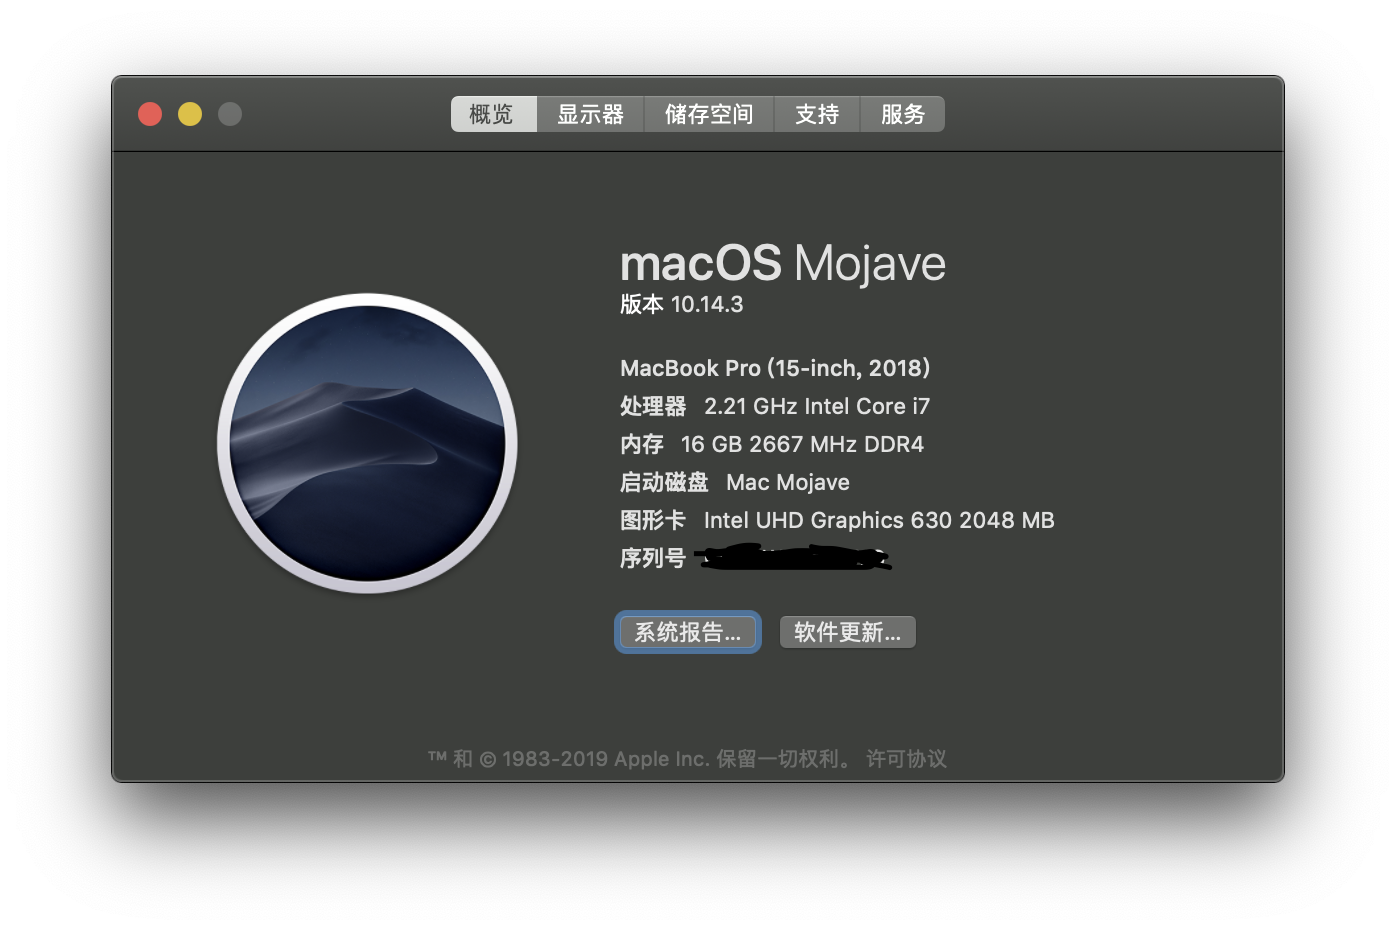
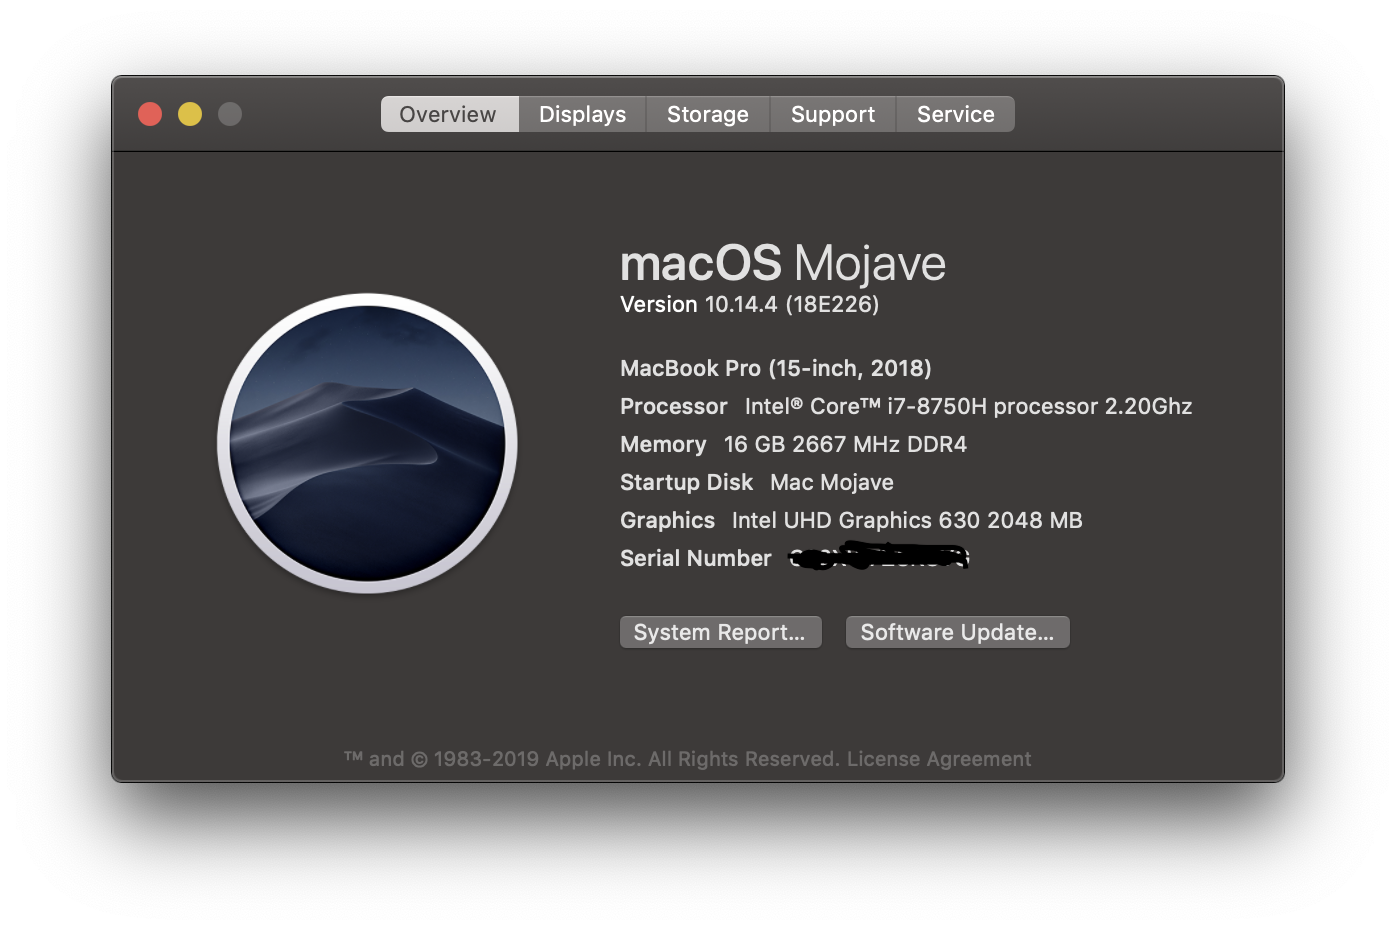
Update README.md

diff --git a/README.md b/README.md
@@ -26,7 +26,7 @@
  * DSDT加载方法存在错误
  
 ## 我的改进
-当然，以上配置已经可以让XPS 9570的几个版本正常使用，但离真正的fawlessly还是有差距。我致力于融合以上两位的工作成果，得到一个完善的配置。在`Mojave 10.14.3`版本下,我的配置解决了以下问题:
+当然，以上配置已经可以让XPS 9570的几个版本正常使用，但离真正的flawlessly还是有差距。我致力于融合以上两位的工作成果，得到一个完善的配置。在`Mojave 10.14.4`版本下,我的配置解决了以下问题:
 
  * 支持Type-C外接显示器输出
  * 支持HDMI口外接显示器输出
@@ -54,26 +54,25 @@
   * Nvida Geforce 1050Ti (无解，已屏蔽)
 
 # 软件环境
- * BIOS: 1.7.0,1.5.0
- * Mojave 10.14.3 + Windows 10 1809系统
- * macOS: 10.14.2, 10.14.3
+ * BIOS: 1.8.1,1.7.0,1.5.0
+ * 系统: Mojave 10.14.4 + Windows 10 1809系统
+ * macOS: 10.14.2, 10.14.3,10.14.4(已支持)
 
 # 使用方法
  * 将CLOVER放入EFI分区，使用config_install.plist进系统完成安装
  * 进入桌面后运行`sudo kextcache -i /`重建缓存
  * 用config.plist使能集显加速
  * 加入自生成的三码
- 
- `config_10.14.4.plist`是我为了想升级10.14.4版本的朋友准备的，因为精力有限我还未能进行测试，期待有人反馈结果。
 
 # 已知问题
  * 睡眠唤醒后，蓝牙随机出现不可用。
- * -v 模式无法进入系统
+ * -v 模式无法进入系统(见[折中方案](#compromise))
+ * 第一阶段与第二阶段苹果logo大小不一致
+ * HDMI adapter 睡眠唤醒后丢失，无法点亮4k@60Hz显示器
  
 # 待测试
  * 雷电三接口
  * 非4k、8750H的机型
- * 在10.14.4上运行
  
 # 关于本机
 ![关于本机](https://github.com/LuletterSoul/Dell-XPS-15-9570-macOS-Mojave/blob/master/screenshots/2048_mem.png)
@@ -81,13 +80,32 @@
 ![集显](https://github.com/LuletterSoul/Dell-XPS-15-9570-macOS-Mojave/raw/master/screenshots/Graphic.png)
 ![双显示器输出](https://github.com/LuletterSoul/Dell-XPS-15-9570-macOS-Mojave/raw/master/screenshots/dual_displays.png)
 ![输出细节](https://github.com/LuletterSoul/Dell-XPS-15-9570-macOS-Mojave/raw/master/screenshots/dual_displays_details.png)
+![触控板](https://github.com/LuletterSoul/Dell-XPS-15-9570-macOS-Mojave/raw/master/screenshots/trackpad.png)
 ![USB3.1](https://github.com/LuletterSoul/Dell-XPS-15-9570-macOS-Mojave/raw/master/screenshots/USB3.1.png)
 ![电池](https://github.com/LuletterSoul/Dell-XPS-15-9570-macOS-Mojave/raw/master/screenshots/Battery.png)
 ![DW1830蓝牙](https://github.com/LuletterSoul/Dell-XPS-15-9570-macOS-Mojave/raw/master/screenshots/DW1830%20Bluetooth.png)
 ![DW1830 Wifi](https://github.com/LuletterSoul/Dell-XPS-15-9570-macOS-Mojave/raw/master/screenshots/DW1830%20Wifi.png)
 ![原生管理](https://github.com/LuletterSoul/Dell-XPS-15-9570-macOS-Mojave/raw/master/screenshots/Extention.png)
 ![变频](https://github.com/LuletterSoul/Dell-XPS-15-9570-macOS-Mojave/raw/master/screenshots/Intel%20Turbo%20Boost.png)
+# 折中方案
+ <span id = "compromise"></span>
+ ## 去除 -v 模式
+ 将`VoodooI2C.kext`,`VoodooI2CHID.kext`,`VoodooPS2Controller.kext` 安装到
+ `/System/Library/Extensions/`, 重建缓存。
+ ## 耳机无声
+ 为ALC298启用守护进程。见[ALC298PlugFix](https://github.com/jardenliu/ALC298PlugFix)
 # 更新历史
+## 支持10.14.4
+  现在的配置支持10.14.4了
+## 注入USB Power Property
+   使用SSDT-USBX.aml 注入四项USB电源属性，设备充电信息变完整了。见[USB power property injection for Sierra (and later)](https://www.tonymacx86.com/threads/guide-usb-power-property-injection-for-sierra-and-later.222266/),谢谢伟人 RehabMan!
+## 修复电池显示
+   删除了abm_firstpolldelay=16000，修复了重启后电量不显示的问题。
+## 驱动更新
+  * VoovooI2C 更新至 v1.2.6 ,支持输入时防触控，支持双指激活通知中心。谢谢 [alexandred](https://github.com/alexandred/VoodooI2C)！
+  * AppleALC 更新至 v1.3.7
+  * AirportBcrmFixup 更新至 v1.19
+  * CPUFriend 与 CPUFriendDataProvider 重新生成，改善8750H的变频效果
 ## 修复HDMI输出
 XPS 9570的HDMI输出问题终于有了进展：依旧是来自@0xFireWolf的出色工作：[Coffee Lake Intel UHD Graphics 630 on macOS Mojave: HDMI Output Issue ](https://www.tonymacx86.com/threads/fix-coffee-lake-intel-uhd-graphics-630-on-macos-mojave-hdmi-output-issue-public-testing-stage.275126/)。（大佬也曾针对CoffeLake UHD 630 Graphic造成的panic问题提出了解决方案，真是太强了）！解决方式如下：
 
@@ -106,11 +124,11 @@ XPS 9570的HDMI输出问题终于有了进展：依旧是来自@0xFireWolf的出
 单屏幕输出成功的样例：
  * `4k 60Hz display<--->HDMI 2.0 cable<---->HDMI 2.0 port`
 ## 禁用board id侦测
-此前，使用macbook pro 15的board-id存在问题(因为Mac OS的主板侦测)，通过修改board-id为iMac,14,可以驱动Type-C接口。但是，经测试该方法有一定几率使电池图标在重启后消失，也可能使DA300 Hub失效。现使用原生的Mbp,15的board-id,同时使用WhateverGreen 中的启动参数agdpmod=vit9696禁用其侦测。
+此前，使用macbook pro 15的board-id存在问题(因为Mac OS的主板侦测)，通过修改board-id为iMac,14,可以驱动Type-C接口。现使用原生的Mbp,15的board-id,同时使用WhateverGreen 中的启动参数agdpmod=vit9696禁用其侦测。
 ## 更新Voodool2CHID v2.1.5
   可能修复了一些bug。
 ## 将显存修改为2048MB
   通过WhateverGreen修改显存为2048M,可能会解决一些机型的花屏问题。
 # 声明
-我尝试直接升级10.14.4，失败了。因此我选择我停留在10.14.3（18D42）,在这个版本上机器工作得很好，希望有意愿的朋友可以尝试升级到10.14.3更高版本进行测试，期待更多的朋友可以加入进来，让XPS 9570 实现真正的Hackintosh!
+现在XPS 9570 已经在最新版本工作得很好啦。希望有意愿的朋友可以探索已知问题列表中的issues，或者提出更多可改进的方案，让XPS 9570 实现真正的Hackintosh!
 如果你需要发布此EFI或转载给他人，请务必注明我的仓库出处，以及[Xigtun](https://github.com/Xigtun/xps-9570-mojave),[bavariancake](https://github.com/bavariancake/XPS9570-macOS)的仓库地址，请勿用于商业行为！尊重开源与劳动！您的合作与支持是我们持续维护和分享的动力。
